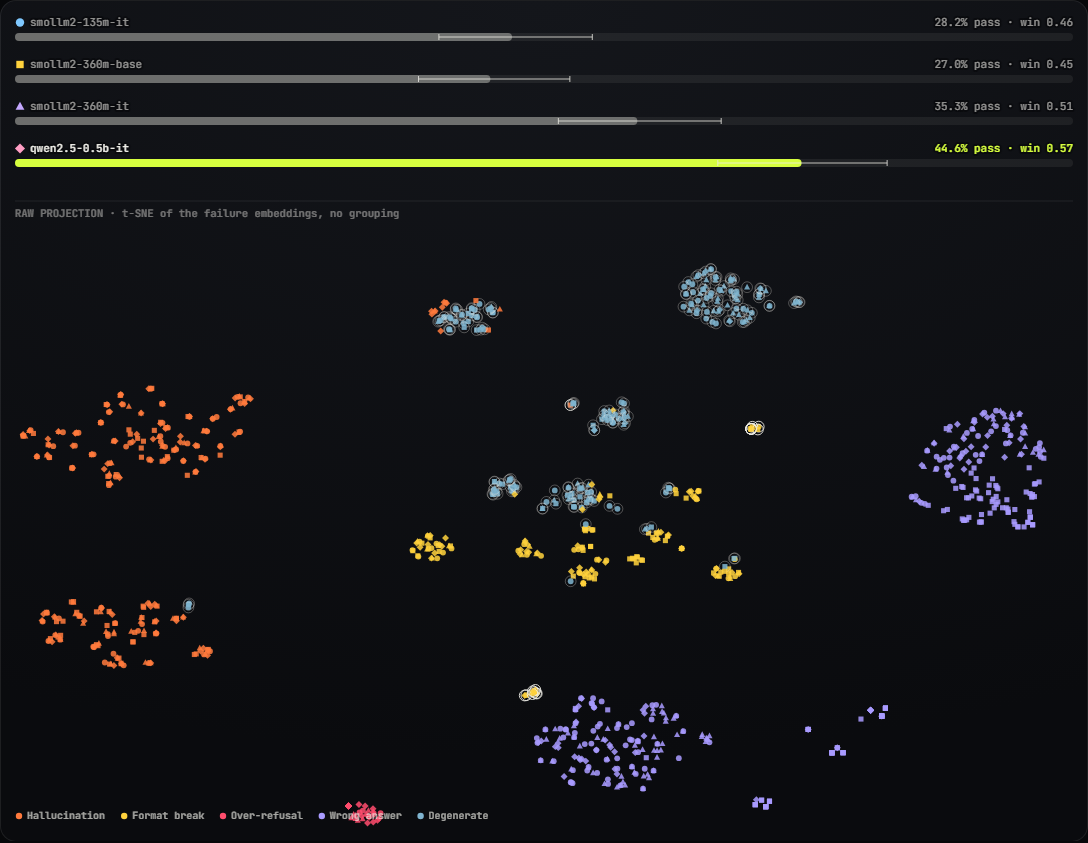
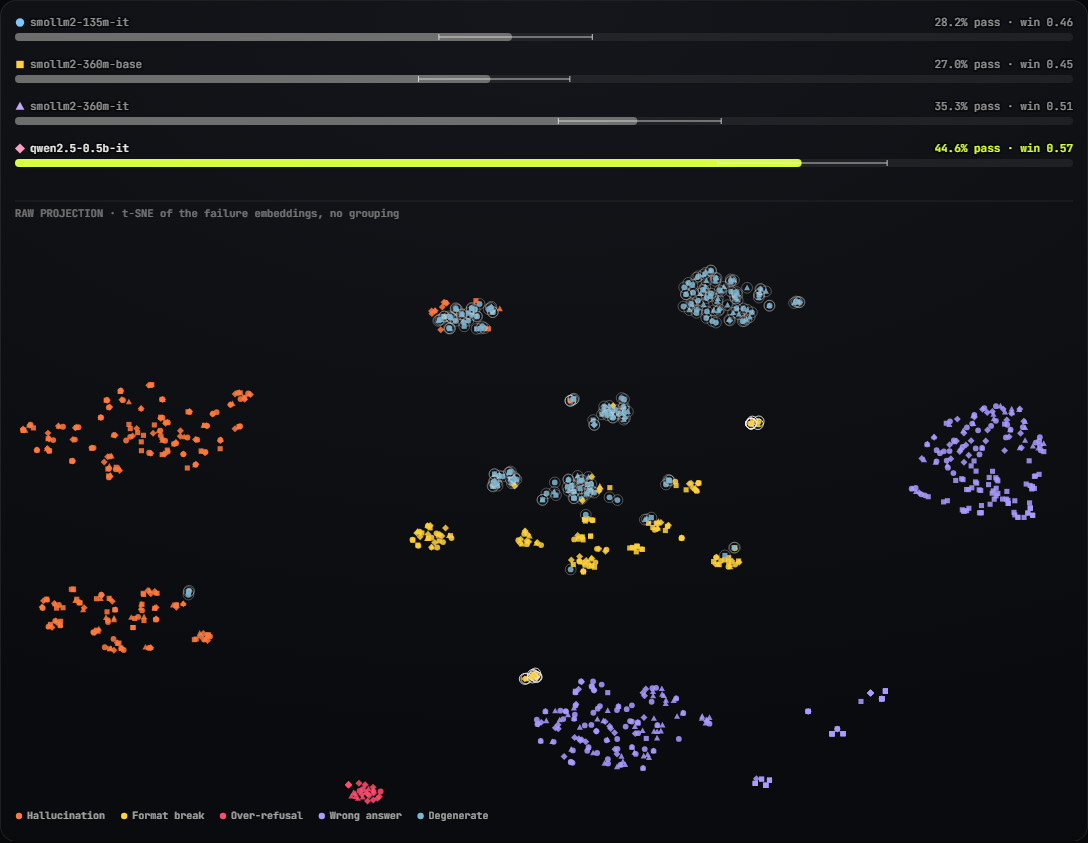
README: reorder sections, end-state screenshots, tidy the number markers; fix the replay counter at the end and the raw-view legend overlap

diff --git a/docs/app.js b/docs/app.js
@@ -108,7 +108,7 @@ const Stage = (() => {
     L.sc = sc;
     DOTS.forEach((d) => {
       d.ix = cx + d.p[pre + 'x'] * sc; d.iy = cy + d.p[pre + 'y'] * sc;
-      d.rx = cx + d.p.rx * (pw / 2); d.ry = cy + d.p.ry * (ph / 2);
+      d.rx = cx + d.p.rx * (pw / 2); d.ry = cy - 10 + d.p.ry * (ph / 2 - 12); // raw view keeps a strip at the bottom for its legend
     });
     L.subs = D.clusters.clusters.map((c) => ({ c, x: cx + c[pre + 'x'] * sc, y: cy + c[pre + 'y'] * sc, r: c[pre + 'r'] * sc }));
     L.isl = D.clusters.islands.map((i) => ({ i, x: cx + i[pre + 'x'] * sc, y: cy + i[pre + 'y'] * sc, r: i[pre + 'r'] * sc }));
@@ -293,7 +293,7 @@ const Stage = (() => {
       ctx.font = mono(12); ctx.fillStyle = 'rgba(237,236,230,.5)'; ctx.textAlign = 'center';
       ctx.fillText('press play: failing samples will land here', W / 2, (L.my0 + L.my1) / 2); ctx.textAlign = 'left';
     }
-    count.textContent = `${Math.floor(t)} / ${N}`;
+    count.textContent = `${Math.min(N, Math.floor(t))} / ${N}`; // t runs past N while the last samples fly in
     if (document.activeElement !== scrub) scrub.value = t;
   }
 

diff --git a/web/app.js b/web/app.js
@@ -108,7 +108,7 @@ const Stage = (() => {
     L.sc = sc;
     DOTS.forEach((d) => {
       d.ix = cx + d.p[pre + 'x'] * sc; d.iy = cy + d.p[pre + 'y'] * sc;
-      d.rx = cx + d.p.rx * (pw / 2); d.ry = cy + d.p.ry * (ph / 2);
+      d.rx = cx + d.p.rx * (pw / 2); d.ry = cy - 10 + d.p.ry * (ph / 2 - 12); // raw view keeps a strip at the bottom for its legend
     });
     L.subs = D.clusters.clusters.map((c) => ({ c, x: cx + c[pre + 'x'] * sc, y: cy + c[pre + 'y'] * sc, r: c[pre + 'r'] * sc }));
     L.isl = D.clusters.islands.map((i) => ({ i, x: cx + i[pre + 'x'] * sc, y: cy + i[pre + 'y'] * sc, r: i[pre + 'r'] * sc }));
@@ -293,7 +293,7 @@ const Stage = (() => {
       ctx.font = mono(12); ctx.fillStyle = 'rgba(237,236,230,.5)'; ctx.textAlign = 'center';
       ctx.fillText('press play: failing samples will land here', W / 2, (L.my0 + L.my1) / 2); ctx.textAlign = 'left';
     }
-    count.textContent = `${Math.floor(t)} / ${N}`;
+    count.textContent = `${Math.min(N, Math.floor(t))} / ${N}`; // t runs past N while the last samples fly in
     if (document.activeElement !== scrub) scrub.value = t;
   }
 

diff --git a/scripts/shots.py b/scripts/shots.py
@@ -12,6 +12,15 @@ from pathlib import Path
 
 from playwright.sync_api import sync_playwright
 
+# Only the screenshots the README embeds are written; the other steps still run for the checks below.
+KEPT = {"desktop-3-map", "desktop-3b-raw", "desktop-2b-flight", "phone-replay-end"}
+
+
+def shot(target, out: Path, stem: str) -> None:
+    """Write the screenshot only if the README uses it."""
+    if any(stem.endswith(k) for k in KEPT):
+        target.screenshot(path=str(out / f"{stem}.png"))
+
 
 def run(url: str, out: Path, tag: str = "") -> dict:
     out.mkdir(parents=True, exist_ok=True)
@@ -32,19 +41,28 @@ def run(url: str, out: Path, tag: str = "") -> dict:
             page.goto(url, wait_until="networkidle")
             page.wait_for_function("window.__evalbench !== undefined", timeout=15000)
             page.wait_for_timeout(1500)
-            page.screenshot(path=str(out / f"{tag}{name}-1-hero.png"))
-            # mid replay
-            page.evaluate("window.__evalbench.seek(60)")
+            # the end of the replay: every prompt scored, every failing sample landed on its island
+            page.evaluate("document.fonts.ready")
+            page.evaluate("const s = window.__evalbench.state(); window.__evalbench.seek(s.N + s.FLIGHT)")
+            if name == "phone":
+                # controls just below the sticky bar, so the counter, the lanes and the whole map are in the frame
+                page.evaluate(
+                    "const h = document.querySelector('header').getBoundingClientRect().height;"
+                    "window.scrollTo({top: document.querySelector('.controls').getBoundingClientRect().top + window.scrollY - h - 12, behavior: 'instant'})"
+                )
+                page.wait_for_timeout(500)
+                report["phone_counter_at_end"] = page.inner_text("#count")
+                bottom = page.evaluate("document.querySelector('#stage').getBoundingClientRect().bottom")
+                if any(f"{tag}{name}-replay-end".endswith(k) for k in KEPT):
+                    # cut at the bottom edge of the stage card, not through the toggles below it
+                    page.screenshot(path=str(out / f"{tag}{name}-replay-end.png"), clip={"x": 0, "y": 0, "width": 390, "height": bottom + 10})
             page.locator("#stage").scroll_into_view_if_needed()
             page.wait_for_timeout(300)
-            page.screenshot(path=str(out / f"{tag}{name}-2-replay.png"))
-            page.evaluate("const s = window.__evalbench.state(); window.__evalbench.seek(s.N + s.FLIGHT)")
-            page.wait_for_timeout(300)
-            page.locator("#stage").screenshot(path=str(out / f"{tag}{name}-3-map.png"))
+            shot(page.locator("#stage"), out, f"{tag}{name}-3-map")
             # raw projection view
             page.evaluate("window.__evalbench.view('raw')")
             page.wait_for_timeout(200)
-            page.locator("#stage").screenshot(path=str(out / f"{tag}{name}-3b-raw.png"))
+            shot(page.locator("#stage"), out, f"{tag}{name}-3b-raw")
             page.evaluate("window.__evalbench.view('islands')")
             page.wait_for_timeout(200)
             # frame rate while the replay plays (headless, software rendering: a floor, not a phone measurement)
@@ -55,7 +73,7 @@ def run(url: str, out: Path, tag: str = "") -> dict:
             page.evaluate("window.__evalbench.seek(150)")
             page.locator("#stage").scroll_into_view_if_needed()
             page.wait_for_timeout(200)
-            page.locator("#stage").screenshot(path=str(out / f"{tag}{name}-2b-flight.png"))
+            shot(page.locator("#stage"), out, f"{tag}{name}-2b-flight")
             page.evaluate("const s = window.__evalbench.state(); window.__evalbench.seek(s.N + s.FLIGHT)")
             page.wait_for_timeout(200)
             # tap a dot
@@ -71,16 +89,13 @@ def run(url: str, out: Path, tag: str = "") -> dict:
                     page.mouse.click(x, y)
                 page.wait_for_timeout(900)
                 report[f"{name}_drawer_open"] = page.evaluate("!document.getElementById('drawer').hidden")
-                page.screenshot(path=str(out / f"{tag}{name}-4-drawer.png"))
                 page.keyboard.press("Escape")
                 page.wait_for_timeout(600)
                 report[f"{name}_drawer_closed"] = page.evaluate("document.getElementById('drawer').hidden")
             page.locator("#panels").scroll_into_view_if_needed()
             page.wait_for_timeout(1200)
-            page.screenshot(path=str(out / f"{tag}{name}-5-panels.png"), full_page=False)
             page.locator("#diff-sec").scroll_into_view_if_needed()
             page.wait_for_timeout(500)
-            page.screenshot(path=str(out / f"{tag}{name}-6-diff.png"))
             report[f"{name}_overflow_x"] = page.evaluate("document.documentElement.scrollWidth - window.innerWidth")
             small = page.evaluate(
                 "[...document.querySelectorAll('button,input[type=range],a.mark,.links a,.checks label')]"

diff --git a/scripts/check_numbers.py b/scripts/check_numbers.py
@@ -187,6 +187,8 @@ def inline(d: dict) -> dict[str, str]:
         "base_hall": str(d["mode_table"][x["from"]]["hallucination"]), "it_hall": str(d["mode_table"][x["to"]]["hallucination"]),
         "it_degen": str(d["mode_table"][x["to"]]["degenerate"]), "base_degen": str(d["mode_table"][x["from"]]["degenerate"]),
         "it_loops": str(m["cap_hits"][x["to"]]["loops"]), "it_budget": str(m["cap_hits"][x["to"]]["budget_only"]),
+        "rate_lo": f"{min(R[(c, 'ALL')]['rate'] for c in names(d)) * 100:.1f}",
+        "rate_hi": f"{max(R[(c, 'ALL')]['rate'] for c in names(d)) * 100:.1f}",
         "half_lo": f"{min((R[(c, 'ALL')]['ci_hi'] - R[(c, 'ALL')]['ci_lo']) / 2 * 100 for c in names(d)):.1f}",
         "half_hi": f"{max((R[(c, 'ALL')]['ci_hi'] - R[(c, 'ALL')]['ci_lo']) / 2 * 100 for c in names(d)):.1f}",
         "n_disagree_plain": str(st["representations"]["plain"]["mislabelled"]),
@@ -197,7 +199,8 @@ def inline(d: dict) -> dict[str, str]:
         "centred_purity": f"{st['representations']['task_centred']['purity']:.3f}",
         "chosen_mislabelled": str(st["mislabelled"]),
         "n_math": str(R[(names(d)[0], "math")]["n"]),
-        "default_judge": m["judge"].split(":", 1)[1], "n_strict": str(d["judge_comparison"]["judges"][m["judge"]]["strict"]["n"]),
+        "default_judge": "`" + m["judge"].split(":", 1)[1] + "`",  # backticks sit inside the marker pair
+        "n_strict": str(d["judge_comparison"]["judges"][m["judge"]]["strict"]["n"]),
         "n_pairs": str(d["judge_comparison"]["judges"][m["judge"]]["pairwise"]["n"]),
         "judgeyes": b_judgeyes(d), "memory": b_memory(d),
     }

diff --git a/README.md b/README.md
@@ -1,20 +1,46 @@
 # EvalBench
 
+[![CI](https://github.com/Aditya2616/EvalBench/actions/workflows/ci.yml/badge.svg)](https://github.com/Aditya2616/EvalBench/actions/workflows/ci.yml)
+[![Licence: MIT](https://img.shields.io/badge/licence-MIT-blue.svg)](LICENSE)
+
 An evaluation harness that finds where a model fails, not just how often.
 
-It runs one prompt suite across several model checkpoints, scores every output (exact match and rule checks first, a small rubric judge only where no rule exists), assigns each failure a mode with deterministic detectors (hallucination, format break, over-refusal, wrong answer, degenerate output), then embeds the failing answers, clusters them, and shows how well the clusters line up with the modes. The point is to make the next fine-tuning cycle target something specific. I work on post-training and evaluation, and "pass rate went up a few points" never told me what to fix next.
+It runs one prompt suite across several model checkpoints, scores every output (exact match and rule checks first, a small rubric judge only where no rule exists), assigns each failure a mode with deterministic detectors (hallucination, format break, over-refusal, wrong answer, degenerate output), then embeds the failing answers, clusters them, and shows how well the clusters line up with the modes. The point is to make the next fine-tuning cycle target something specific. A pass-rate change does not say what to fix next; this harness is built to answer that.
 
-The `docs/` folder is a static site that replays a real recorded run (serve it with any static file server, see below). It is a recording, not a live model.
+In the recorded run, four sub-1B checkpoints pass between <!-- n:rate_lo -->27.0<!-- /n:rate_lo -->% and <!-- n:rate_hi -->44.6<!-- /n:rate_hi -->% of <!-- n:n_items -->408<!-- /n:n_items --> prompts. That is a small study, not a benchmark: differences of a few points are within the noise, and the intervals below say so.
 
-![Race and failure map, desktop](docs/assets/desktop-3-map.png)
+![Race and failure map at the end of the replay, desktop: pass rate per checkpoint above, one island per failure mode below](docs/assets/desktop-3-map.png)
 
-<img src="docs/assets/phone-2-replay.png" width="300" alt="Phone layout">
+<img src="docs/assets/phone-replay-end.png" width="260" alt="Phone layout at the end of the replay (408 of 408): checkpoint lanes with pass rates, then the failure map">
 
 The same map as the raw, ungrouped projection, and a frame with failing samples in flight from their checkpoint lanes:
 
-![Raw projection, desktop](docs/assets/desktop-3b-raw.png)
+![Raw projection of the failure embeddings, desktop, coloured by detector mode, with a legend underneath](docs/assets/desktop-3b-raw.png)
 
-![Samples in flight, desktop](docs/assets/desktop-2b-flight.png)
+![Failing samples in flight from their checkpoint lanes to their mode islands, desktop (mid-replay, so the pass rates shown are partial)](docs/assets/desktop-2b-flight.png)
+
+## How it works
+
+```mermaid
+flowchart LR
+  S[suite.jsonl<br/>408 prompts, seeded, hashed, versioned] --> G[generate<br/>HF, greedy, cached per checkpoint]
+  G --> R[score<br/>exact match, constraints, lexicons]
+  R --> J[rubric judge<br/>yes/no logprob, only where no rule, disk cache]
+  J --> D[detect modes<br/>deterministic rules per failure]
+  D --> C[embed + cluster<br/>MiniLM, three representations, islands by mode]
+  C --> O[run.json]
+  O --> A[FastAPI + web UI]
+  O --> X[docs/ static demo]
+  O --> N[check_numbers.py<br/>README tables]
+```
+
+- `src/evalbench/suite`: builds the suite from GSM8K, MMLU, IFEval, TruthfulQA, XSTest plus items I wrote (fake-entity questions, JSON tasks). Fixed seed, content hash, version.
+- `src/evalbench/models.py`: batched greedy generation (CUDA in float16 when available, otherwise CPU in float32). Base models get a plain prompt and stop at the next "Question:". Output is appended per checkpoint to `runs/<id>/generations/`, so a stopped run resumes.
+- `src/evalbench/scorers`: extractors, constraint verifiers, refusal and abstention lexicons, and the judge interface with `local:`, `openai:` and `anthropic:` backends and the on-disk call cache.
+- `src/evalbench/failures/cluster.py`: the three representations, purity and silhouette, islands, sub-clusters, the list of disagreeing samples.
+- `src/evalbench/report.py`: pandas reports (Wilson intervals, win-rate matrix, mode table, diff, judge statistics, cap-hit rates, fine-tuning targets).
+- `src/evalbench/api.py`: FastAPI (`/health`, `/api/runs`, `/api/runs/{id}`, samples, and `/api/try` to run a custom prompt on local checkpoints).
+- `web/`: vanilla JS and canvas. The race and the failure map replay the real per-sample verdicts in a shuffled order; nothing is simulated. Each checkpoint keeps one colour and glyph in the lanes, the dots and the detail sheet. A failing sample flies from its checkpoint's lane along an eased path to its place in its mode island. The canvas caps its pixel ratio and pauses off screen. Tap a dot or cluster for a drawer (a bottom sheet on phones) with the prompt, gold answer, output and evidence.
 
 ## What the run found
 
@@ -101,7 +127,7 @@ I compared three representations with KMeans (k chosen by silhouette, 3 to 12). 
 <!-- /numbers:clusters -->
 
 - **plain** is the embedding of "[task] output". It mostly groups by what the question was about (see its AMI with the task), and it is the unsupervised baseline.
-- **task-centred** subtracts the mean embedding of each task. It removes the topic as intended (AMI with the task falls), but it loses the failure mode too, so it did not improve on plain. I kept it in the table because it was the obvious first idea.
+- **task-centred** subtracts the mean embedding of each task. It removes the topic as intended (AMI with the task falls), but it loses the failure mode too, so it did not improve on plain. It is in the table as the obvious first idea.
 - **failure_text** embeds a short description of how the answer failed ("wrong final number", "broke a formatting rule: contains capital letters; repeats itself", "refused a harmless request"), written from the verdict evidence, plus the task-centred output embedding. It gives the clearest clusters, but it is built from the detectors' evidence, so its agreement with the modes is partly by construction. Read it as a map of failure descriptions, not as an independent test of the detectors. The plain row is the independent one, and it agrees with the detectors only moderately.
 
 Inside each island:
@@ -127,40 +153,17 @@ I compared two local judges on the recorded generations against the labels I can
 | Qwen/Qwen2.5-1.5B-Instruct | 65.9% (672) | 0.37 | 87%, kappa 0.74 (384) | 68% (200) | 72% |
 <!-- /numbers:judge -->
 
-The rule I fixed before running the comparison: the default judge is the one with the higher kappa against exact-match labels, which is Qwen2.5-0.5B-Instruct (`<!-- n:default_judge -->Qwen/Qwen2.5-0.5B-Instruct<!-- /n:default_judge -->`). On the exact-match labels: <!-- n:judgeyes -->Qwen/Qwen2.5-0.5B-Instruct says yes to 31% when 25% are correct; Qwen/Qwen2.5-1.5B-Instruct says yes to 58% when 25% are correct<!-- /n:judgeyes -->. The 1.5B judge is lenient on reference-answer questions but better on the lexicon and pairwise checks, so the result is mixed, not a clear win. Both judges are weak and flip their pairwise answer in most cases when the two responses are swapped. That is why the design is rule-first: the judge decides only the open-ended truthfulness items, and the 0.5B judge is also one of the four checkpoints, so its verdicts on its own answers are biased. Treat the truth column as the least reliable one. The judge is validated on a different question type than the one it decides, since the truth items have no exact-match gold.
+The rule I fixed before running the comparison: the default judge is the one with the higher kappa against exact-match labels, which is Qwen2.5-0.5B-Instruct (<!-- n:default_judge -->`Qwen/Qwen2.5-0.5B-Instruct`<!-- /n:default_judge -->). On the exact-match labels: <!-- n:judgeyes -->Qwen/Qwen2.5-0.5B-Instruct says yes to 31% when 25% are correct; Qwen/Qwen2.5-1.5B-Instruct says yes to 58% when 25% are correct<!-- /n:judgeyes -->. The 1.5B judge is lenient on reference-answer questions but better on the lexicon and pairwise checks, so the result is mixed, not a clear win. Both judges are weak and flip their pairwise answer in most cases when the two responses are swapped. That is why the design is rule-first: the judge decides only the open-ended truthfulness items, and the 0.5B judge is also one of the four checkpoints, so its verdicts on its own answers are biased. Treat the truth column as the least reliable one. The judge is validated on a different question type than the one it decides, since the truth items have no exact-match gold.
 
 Hosted judges (OpenAI, Anthropic API) exist as adapters behind the same interface. I never called either API: they are unit-tested against stubbed HTTP transports only, and the Anthropic API returns no token probabilities, so that adapter gives hard 0 or 1 judgements.
 
 ## Engineering notes
 
-**Judge memory.** An earlier version of the judge comparison used 8 to 15 GB of system RAM and made the machine unusable. The cause was the forward pass: it computed logits for every position of every prompt, that is batch x length x vocabulary (152k entries for Qwen), several GB per batch, when only the last position is needed. It now projects only the last position (`logits_to_keep=1`), forms batches by a padded-token budget, loads weights straight onto the GPU in float16 (loading to the CPU first briefly held a second full copy of a 1.5B model, 6.7 GB), runs each judge in its own process so only one judge model is ever in memory, and caches every judgement on disk so a stopped run resumes. Measured peak, whole process: <!-- n:memory -->local:Qwen/Qwen2.5-0.5B-Instruct: peak RAM 1.9 GB, peak VRAM 1.2 GB; local:Qwen/Qwen2.5-1.5B-Instruct: peak RAM 3.9 GB, peak VRAM 3.4 GB<!-- /n:memory -->.
+**Judge memory.** The judge needs the logits of the last position only, so it projects just that position (`logits_to_keep=1`) instead of computing batch x length x vocabulary (152k entries for Qwen, several GB per batch). It forms batches by a padded-token budget, loads weights straight onto the GPU in float16 (loading to the CPU first would briefly hold a second full copy of a 1.5B model, 6.7 GB), runs each judge in its own process so only one judge model is ever in memory, and caches every judgement on disk so a stopped run resumes. Measured peak, whole process: <!-- n:memory -->local:Qwen/Qwen2.5-0.5B-Instruct: peak RAM 1.9 GB, peak VRAM 1.2 GB; local:Qwen/Qwen2.5-1.5B-Instruct: peak RAM 3.9 GB, peak VRAM 3.4 GB<!-- /n:memory -->.
 
 **One device per run.** Generations for all four checkpoints come from one device and dtype (see the setup line above), recorded next to the generations in `runs/main/generations/*.meta.json`. A run that tries to resume on a different device or dtype stops with an error instead of mixing them.
 
 **Numbers.** Every number in this README between the `numbers` markers is written by `python scripts/check_numbers.py --write` from `runs/main/run.json`, and a fast test (`tests/test_numbers.py`) fails if the README, the exported demo data in `docs/data/run.json`, or the suite metadata drift out of sync. The web UI and the static demo read the same `run.json`.
-
-## Architecture
-
-```mermaid
-flowchart LR
-  S[suite.jsonl<br/>408 prompts, seeded, hashed, versioned] --> G[generate<br/>HF, greedy, cached per checkpoint]
-  G --> R[score<br/>exact match, constraints, lexicons]
-  R --> J[rubric judge<br/>yes/no logprob, only where no rule, disk cache]
-  J --> D[detect modes<br/>deterministic rules per failure]
-  D --> C[embed + cluster<br/>MiniLM, three representations, islands by mode]
-  C --> O[run.json]
-  O --> A[FastAPI + web UI]
-  O --> X[docs/ static demo]
-  O --> N[check_numbers.py<br/>README tables]
-```
-
-- `src/evalbench/suite`: builds the suite from GSM8K, MMLU, IFEval, TruthfulQA, XSTest plus items I wrote (fake-entity questions, JSON tasks). Fixed seed, content hash, version.
-- `src/evalbench/models.py`: batched greedy generation (CUDA in float16 when available, otherwise CPU in float32). Base models get a plain prompt and stop at the next "Question:". Output is appended per checkpoint to `runs/<id>/generations/`, so a stopped run resumes.
-- `src/evalbench/scorers`: extractors, constraint verifiers, refusal and abstention lexicons, and the judge interface with `local:`, `openai:` and `anthropic:` backends and the on-disk call cache.
-- `src/evalbench/failures/cluster.py`: the three representations, purity and silhouette, islands, sub-clusters, the list of disagreeing samples.
-- `src/evalbench/report.py`: pandas reports (Wilson intervals, win-rate matrix, mode table, diff, judge statistics, cap-hit rates, fine-tuning targets).
-- `src/evalbench/api.py`: FastAPI (`/health`, `/api/runs`, `/api/runs/{id}`, samples, and `/api/try` to run a custom prompt on local checkpoints).
-- `web/`: vanilla JS and canvas. The race and the failure map replay the real per-sample verdicts in a shuffled order; nothing is simulated. Each checkpoint keeps one colour and glyph in the lanes, the dots and the detail sheet. A failing sample flies from its checkpoint's lane along an eased path to its place in its mode island. The canvas caps its pixel ratio and pauses off screen. Tap a dot or cluster for a drawer (a bottom sheet on phones) with the prompt, gold answer, output and evidence.
 
 ## Quickstart
 
@@ -172,6 +175,8 @@ evalbench serve                                        # http://127.0.0.1:8101, 
 # or, without a backend:
 python -m http.server 8101 --directory docs
 ```
+
+## Reproduce
 
 The committed run needs no models. To redo the run (about 3 GB of model downloads; minutes on a GPU, hours on a CPU; resumable): `bash scripts/reproduce.sh`. It builds the suite, generates, compares the judges, writes `runs/main/run.json`, exports `docs/` and rewrites the README numbers. The device is chosen automatically (`EVALBENCH_DEVICE=cpu` forces the CPU). Screenshots come from `python scripts/shots.py` (headless Chromium at 1440x900 and 390x844; it also reports console errors, HTTP errors and horizontal scroll).
 
@@ -188,6 +193,22 @@ Other commands: `evalbench report --run runs/main`, `evalbench diff --run runs/m
 - The judge reads the probability of "Yes" against "No" instead of parsing free text, and is checked against the rule labels, with the numbers shown above.
 - Failure modes come from deterministic detectors. The embedding is measured against them and shown honestly, including where it disagrees.
 - Greedy decoding and a content-hashed, versioned suite, so a run is reproducible and two runs can be diffed.
+
+## Layout
+
+```
+src/evalbench/   suite/ (prompt suite), models.py, scorers/, failures/cluster.py, report.py, api.py, cli.py
+web/             UI source: vanilla JS and canvas
+docs/            static demo (a copy of web/ plus data/run.json), notes/, assets/
+runs/main/       generations, verdicts, judge caches and run.json of the recorded run
+data/            the versioned prompt suite
+scripts/         check_numbers.py (README and demo data from run.json), reproduce.sh, shots.py
+tests/           fast offline tests
+```
+
+## Static demo
+
+The `docs/` folder is a static site that replays the recorded run in `runs/main`. It is a recording, not a live model. There is no hosted copy yet; the folder can be served by GitHub Pages, or locally with `python -m http.server 8101 --directory docs`.
 
 ## Limitations
 
@@ -206,4 +227,4 @@ EvalBench is a small experiment next to mature projects that do evaluation well:
 
 Code: MIT, Aditya Jain. Models (all Apache-2.0): SmolLM2 by Hugging Face, Qwen2.5 by Alibaba, all-MiniLM-L6-v2 by sentence-transformers. Data: GSM8K (MIT), MMLU (MIT), IFEval (Apache-2.0), TruthfulQA (Apache-2.0), XSTest (CC-BY-4.0), plus items I wrote. No model weights are committed.
 
-Built by [Aditya Jain](https://adityajain16.vercel.app). Repo: https://github.com/Aditya2616/EvalBench
+Built by [Aditya Jain](https://adityajain16.vercel.app).
